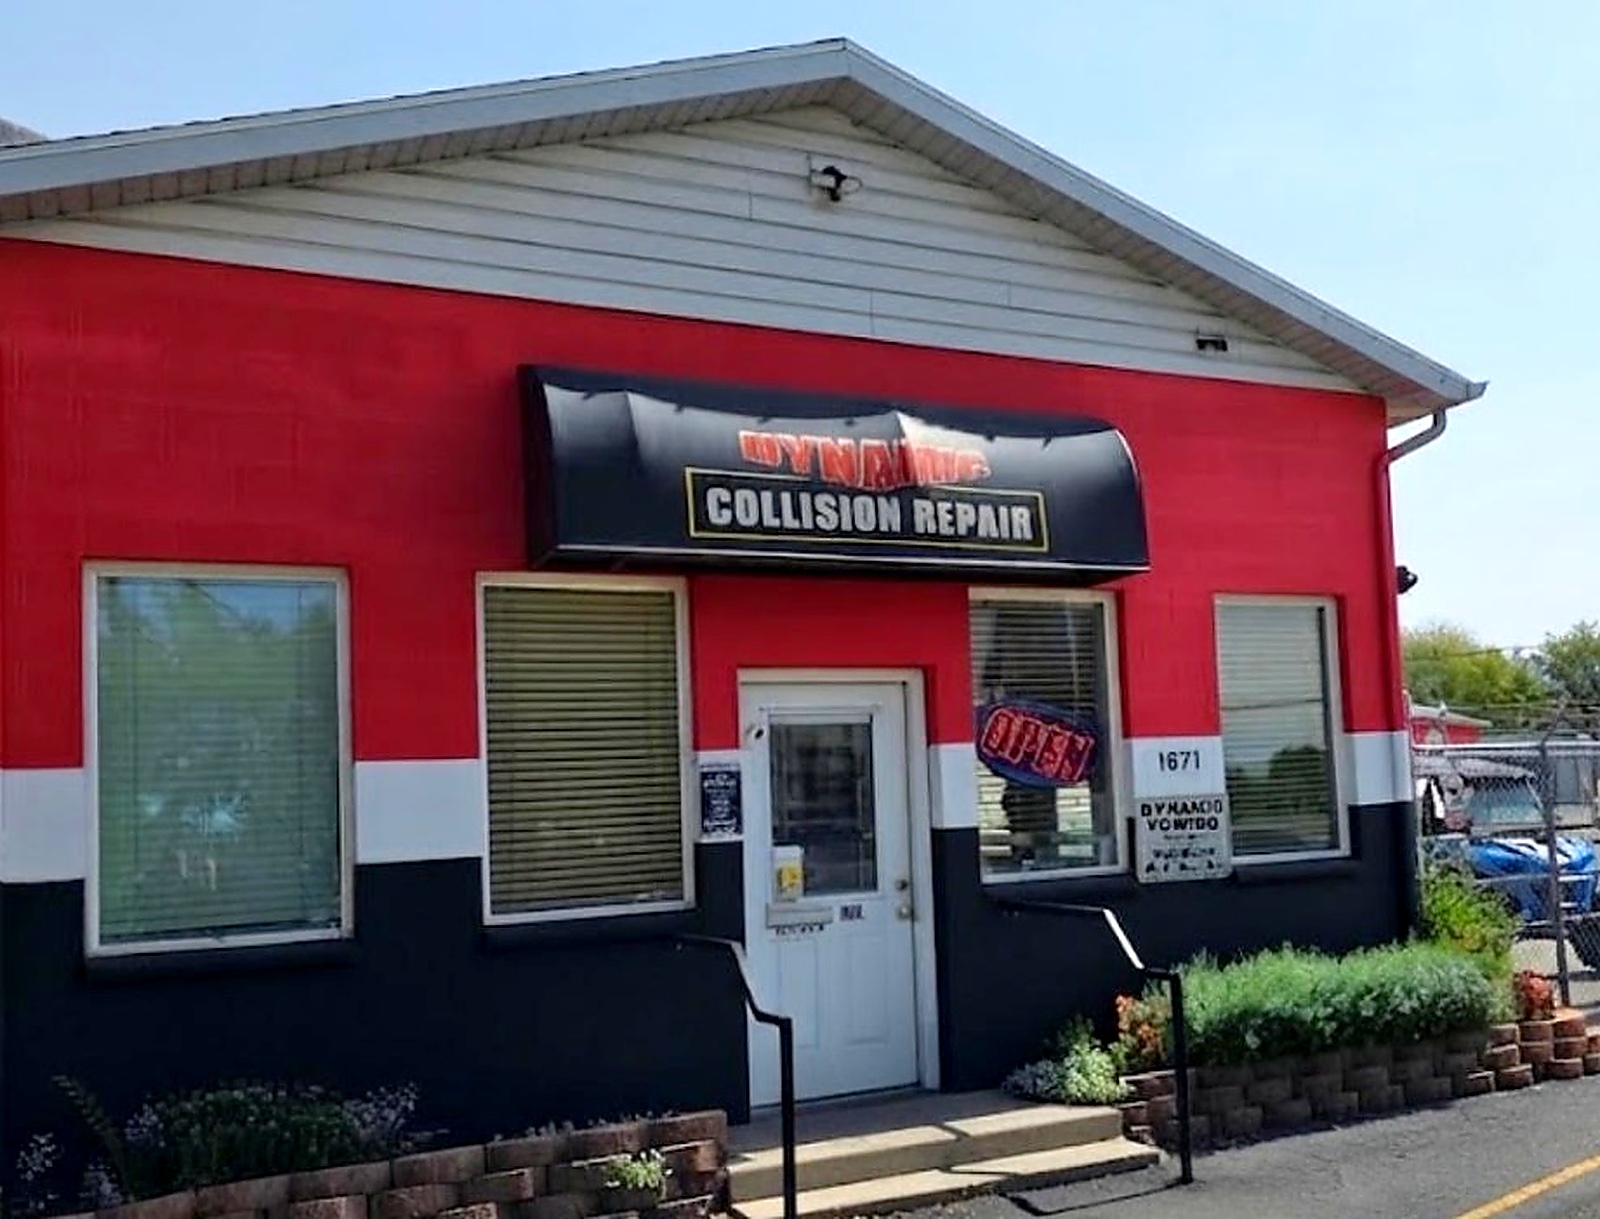
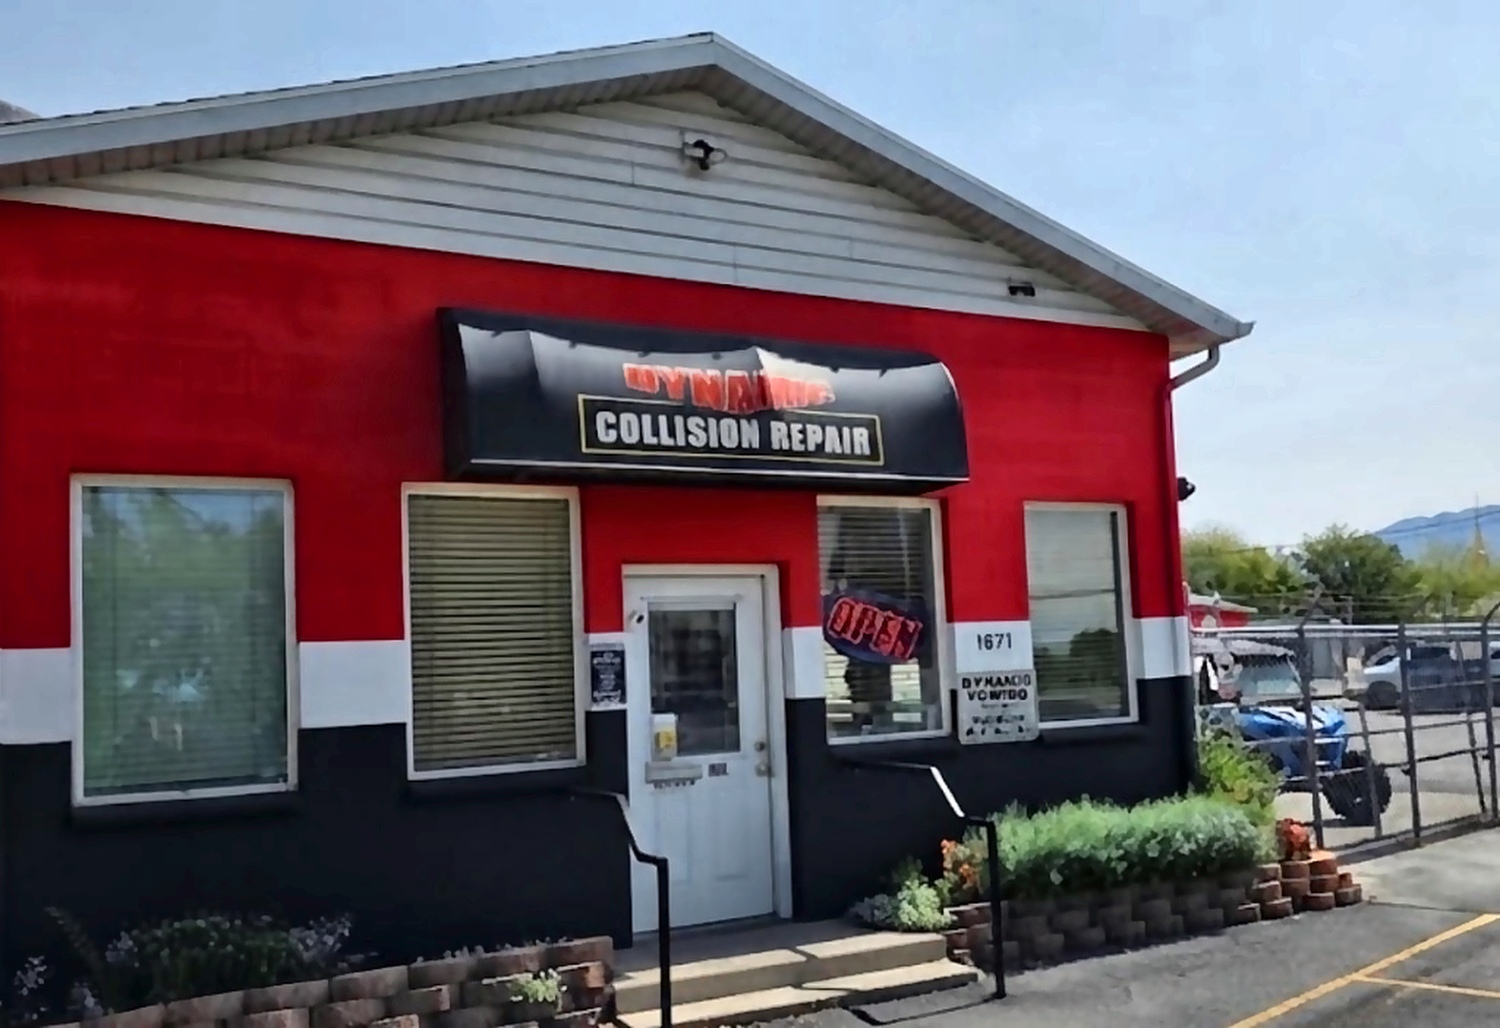
Center shop photo at medium size (600px) and enhance image clarity with crisp high-DPI resolution

diff --git a/about.html b/about.html
@@ -105,10 +105,10 @@
           <!-- Blank paragraph line separating text from picture -->
           <div class="paragraph-spacer"></div>
 
-          <!-- Sharper photo-realistic storefront photo without black bar -->
-          <div class="history-visual fade-in-up">
-            <div class="shop-image-wrapper">
-              <img src="images/dynamic-collision-shop-exterior.jpg?v=20260924_1405" alt="Dynamic Collision Repair Shop Exterior in Provo, UT" class="rounded-img">
+          <!-- Medium-sized, centered storefront photo -->
+          <div class="history-visual fade-in-up" style="display: flex; justify-content: center; align-items: center; width: 100%; margin: 1.75rem auto 1.5rem auto; text-align: center;">
+            <div class="shop-image-wrapper" style="max-width: 600px; width: 100%; margin: 0 auto; display: flex; justify-content: center; align-items: center;">
+              <img src="images/dynamic-collision-shop-exterior.jpg?v=20260924_1425" alt="Dynamic Collision Repair Shop Exterior in Provo, UT" class="rounded-img" style="display: block; margin: 0 auto; max-width: 600px; width: 100%; height: auto;">
             </div>
           </div>
         </div>

diff --git a/css/style.css b/css/style.css
@@ -3074,21 +3074,30 @@ select.form-control {
 
 .history-visual {
   width: 100%;
+  display: flex;
+  justify-content: center;
+  align-items: center;
   margin-top: 1.75rem;
+  margin-bottom: 1.5rem;
+  text-align: center;
 }
 
 .shop-image-wrapper {
   width: 100%;
+  max-width: 600px;
   margin: 0 auto;
+  display: flex;
+  justify-content: center;
+  align-items: center;
   text-align: center;
 }
 
 .shop-image-wrapper img.rounded-img {
   width: 100%;
-  max-width: 960px;
+  max-width: 600px;
   height: auto;
   border-radius: 12px;
-  box-shadow: 0 10px 30px rgba(0, 0, 0, 0.6);
+  box-shadow: 0 10px 30px rgba(0, 0, 0, 0.55);
   display: block;
   margin: 0 auto;
 }
